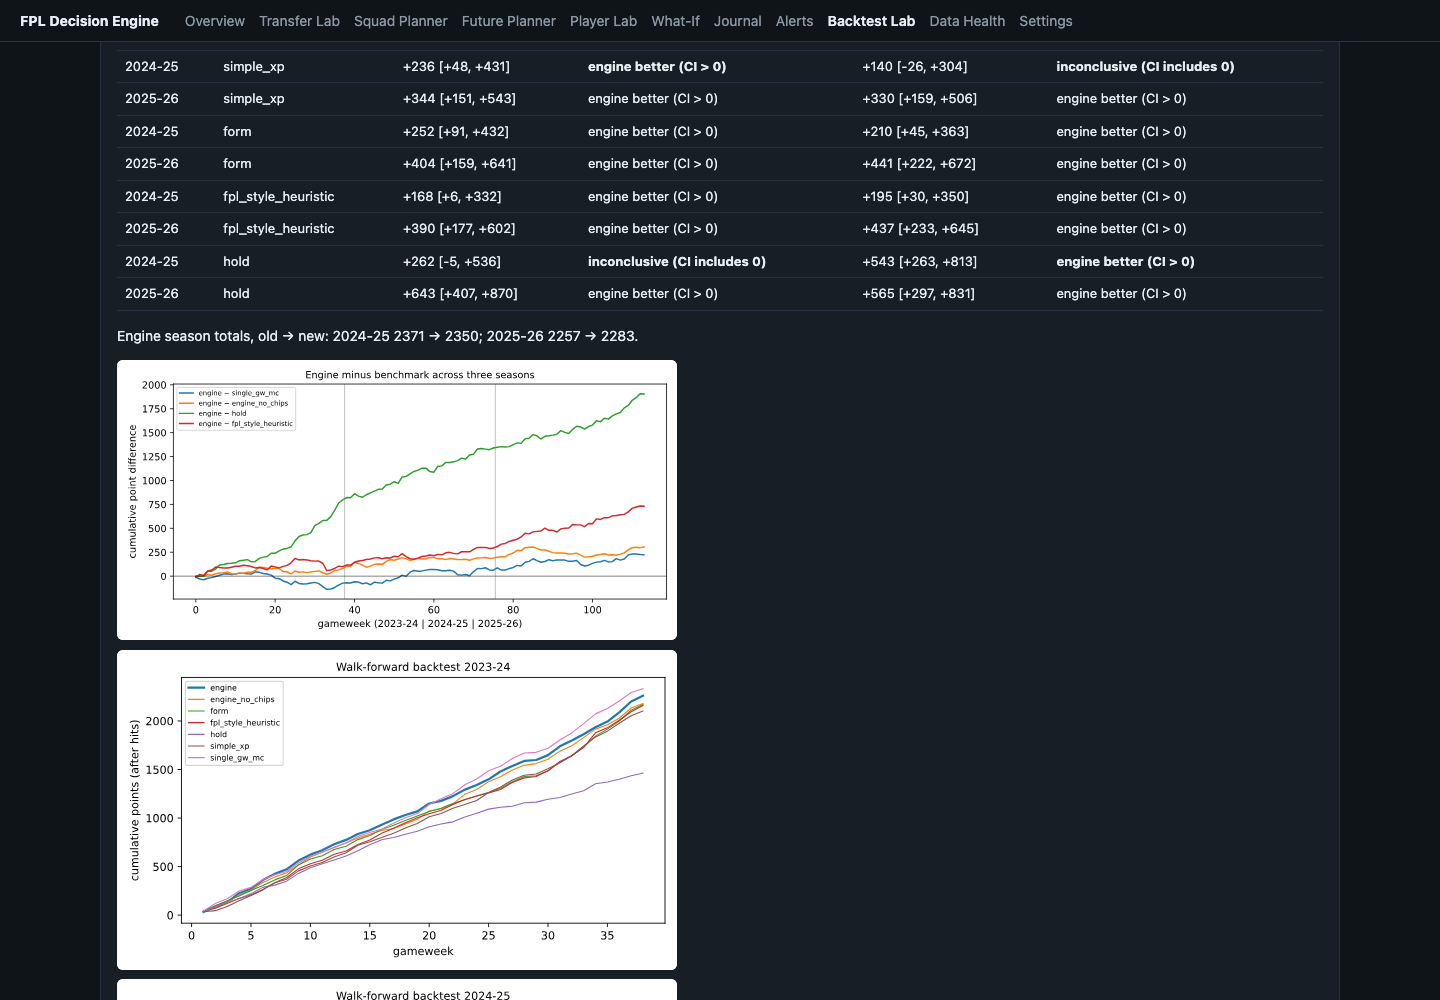
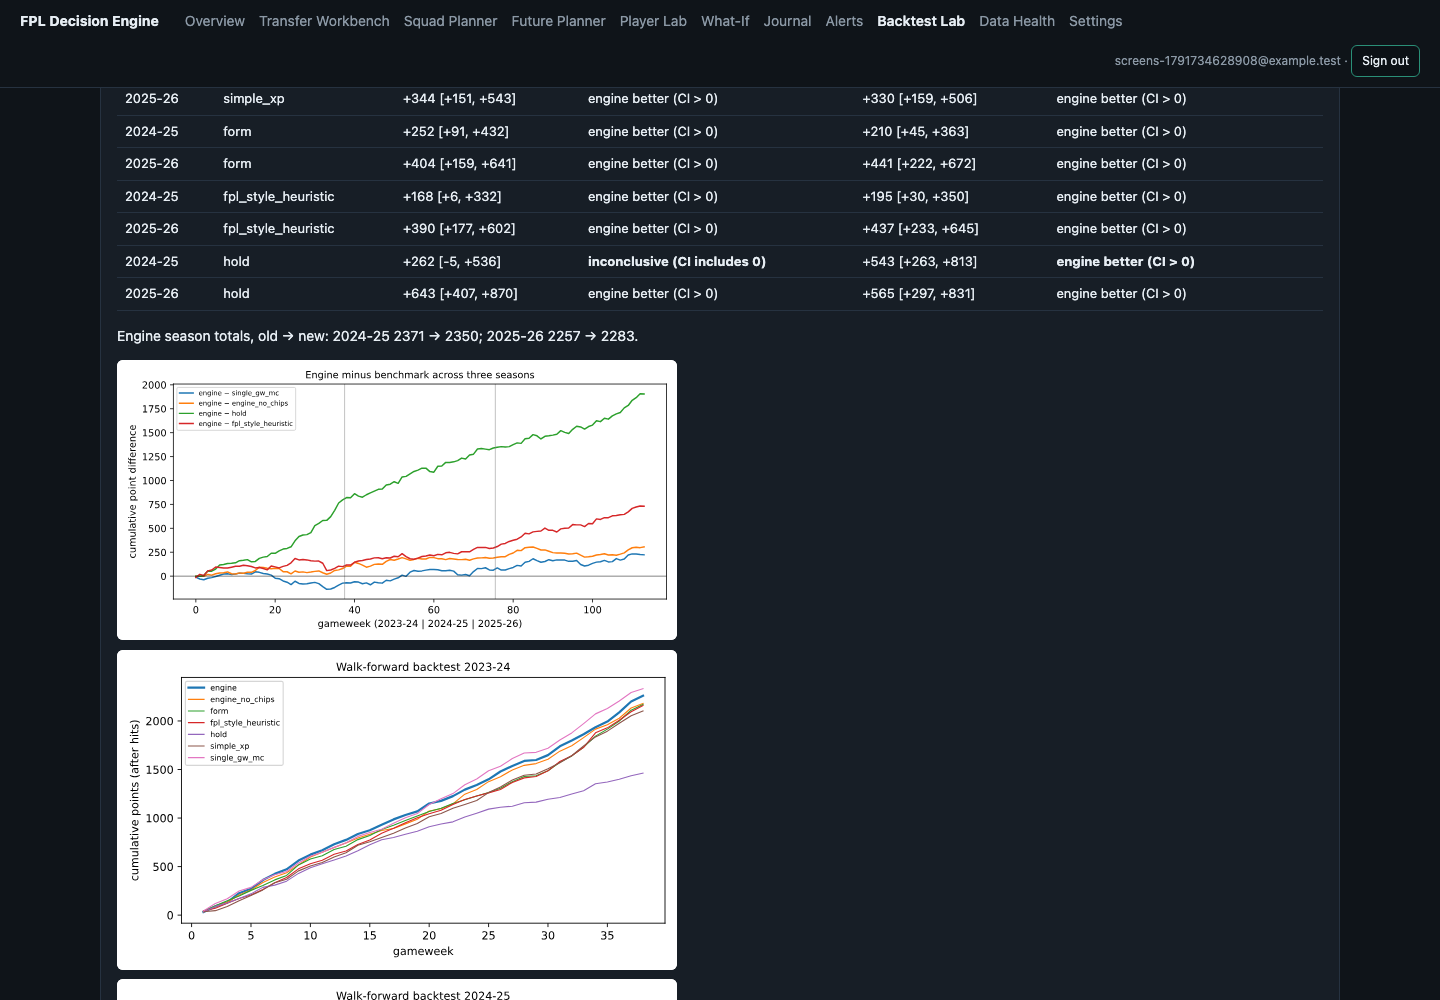
Refresh the screenshots from the current app and capture them as a signed-in beta user
The screenshot run predated invite-only accounts and still showed the pre-M1.1a overview and
"Transfer Lab". It now registers a throw-away beta user, builds a squad with the optimiser (no
real manager's data), captures Copilot Home, the Transfer Workbench, a historical run with
"What changed?", traceability, data health and the Backtest Lab, and deletes the account.
Full-page captures unstick the navigation bar so it is not repeated mid-image. Adds a social
preview image (product name, description and pipeline only). Removes the two screenshots of
replaced pages.

diff --git a/apps/web/e2e-prod/screenshots.spec.ts b/apps/web/e2e-prod/screenshots.spec.ts
@@ -1,54 +1,103 @@
-import { expect, test } from "@playwright/test";
+import { expect, request, test, type APIRequestContext, type Cookie, type Page } from "@playwright/test";
 
 // Portfolio screenshots (§89) of a running deployment — opt-in: SCREENSHOTS=1 with the same
-// environment as production.spec.ts. Writes docs/images/*.png (generated, committed evidence).
+// environment as production.spec.ts (E2E_BASE_URL, E2E_API_URL, E2E_OPS_KEY). Writes
+// docs/images/*.png (generated, committed evidence). Runs as a throw-away beta user with a squad
+// built by the initial-squad optimiser — no real manager's data — and erases everything after.
 const OUT = "../../docs/images";
-const MANAGER = `screens-${Date.now()}`;
+const API = process.env.E2E_API_URL ?? "http://127.0.0.1:8000";
+const OPS_KEY = process.env.E2E_OPS_KEY ?? "";
+
+let MANAGER = "";
+let cookies: Cookie[] = [];
+let web: APIRequestContext;
 
 test.describe.configure({ mode: "serial" });
 test.use({ viewport: { width: 1440, height: 1000 } });
 
-test.beforeEach(async ({ page }) => {
-  await page.addInitScript((key) => {
-    window.localStorage.setItem("fpl.settings.v1", JSON.stringify({ managerKey: key, profile: "default", horizon: 3 }));
-  }, MANAGER);
+test.beforeAll(async ({ baseURL }) => {
+  expect(OPS_KEY, "E2E_OPS_KEY must be set").not.toBe("");
+  const api = await request.newContext({ baseURL: API });
+  const inv = await api.post("/api/v1/auth/invites", { data: { label: "screenshots", days: 1 }, headers: { "x-api-key": OPS_KEY } });
+  expect(inv.ok(), await inv.text()).toBe(true);
+  web = await request.newContext({ baseURL });
+  const reg = await web.post("/auth/register", {
+    data: { invite_code: (await inv.json()).invite_code, email: `screens-${Date.now()}@example.test`, password: "screenshots-only-password" },
+  });
+  expect(reg.ok(), await reg.text()).toBe(true);
+  const mgr = await web.post("/backend/auth/managers", { data: { label: "demo squad" } });
+  expect(mgr.ok(), await mgr.text()).toBe(true);
+  MANAGER = (await mgr.json()).manager_key as string;
+  cookies = (await web.storageState()).cookies;
 });
 
+test.afterAll(async () => {
+  if (web) await web.delete("/backend/auth/me"); // the account and everything it owns
+});
+
+// a full-page capture repeats a sticky header in the middle of the image: unstick it for the
+// capture only (the application is unchanged)
+async function fullShot(page: Page, name: string) {
+  await page.addStyleTag({ content: ".nav, nav, header { position: static !important; }" });
+  await page.screenshot({ path: `${OUT}/${name}`, fullPage: true });
+}
+
+async function signedIn(page: Page) {
+  await page.context().addCookies(cookies);
+  await page.addInitScript((key) => {
+    if (window.localStorage.getItem("fpl.settings.v1")) return;
+    window.localStorage.setItem("fpl.settings.v1", JSON.stringify({ managerKey: key, profile: "default", horizon: 3 }));
+  }, MANAGER);
+}
+
 test("capture the decision workflow", async ({ page }) => {
+  await signedIn(page);
   await page.goto("/squad");
   await page.getByTestId("build-squad").click();
-  await expect(page.getByTestId("squad-msg")).toContainText(/Squad proposed by the initial-squad optimiser \((proven optimal|best found within the solver limit.*not proven optimal)\)/);
+  await expect(page.getByTestId("squad-msg")).toContainText(/Squad proposed by the initial-squad optimiser/);
   await page.getByTestId("save-squad").click();
   await expect(page.getByTestId("squad-msg")).toContainText("Squad saved");
-  await page.screenshot({ path: `${OUT}/squad-planner.png`, fullPage: true });
+  await fullShot(page, "squad-planner.png");
 
+  // Copilot Home with a worker-generated recommendation (current)
   await page.goto("/");
+  await expect(page.getByTestId("captain-profiles")).toBeVisible({ timeout: 300_000 });
   await page.getByTestId("generate").click();
-  await expect(page.getByTestId("decision-text")).toBeVisible();
-  await page.screenshot({ path: `${OUT}/overview-recommendation.png`, fullPage: true });
+  await expect(page.getByTestId("decision-text")).toBeVisible({ timeout: 420_000 });
+  await expect(page.getByTestId("rec-lifecycle")).toHaveAttribute("data-state", "current");
+  await page.screenshot({ path: `${OUT}/copilot-home.png` }); // the top of the page
+  await fullShot(page, "copilot-home-full.png");
 
+  // Transfer Workbench: the engine's replacements for one player vs holding, as a job
   await page.goto("/transfers");
   await page.locator("[data-testid^='out-']").nth(5).click();
   await page.getByTestId("evaluate").click();
   await expect(page.getByTestId("plan-hold")).toBeVisible({ timeout: 420_000 });
-  await page.screenshot({ path: `${OUT}/transfer-workbench.png`, fullPage: true });
+  await fullShot(page, "transfer-workbench.png");
+
+  // Result lifecycle: the squad is saved again, the run is historical and says what changed
+  const st = await (await web.get(`/backend/squad?manager_key=${MANAGER}`)).json();
+  const picks = st.state.squad.map((p: { player_code: number }) => ({ player_code: p.player_code }));
+  await web.post("/backend/squad", { data: { manager_key: MANAGER, picks, bank: st.state.bank + 5, free_transfers: st.state.free_transfers } });
+  await page.reload();
+  await expect(page.getByTestId("run-lifecycle")).toHaveAttribute("data-state", "stale");
+  await page.getByTestId("what-changed-button").click();
+  await expect(page.getByTestId("changed-state")).toBeVisible();
+  await page.getByTestId("run-lifecycle").scrollIntoViewIfNeeded();
+  await page.screenshot({ path: `${OUT}/what-changed.png` });
+  await web.post("/backend/squad", { data: { manager_key: MANAGER, picks, bank: st.state.bank, free_transfers: st.state.free_transfers } });
 
   await page.goto("/journal");
   await page.getByTestId("journal").locator("tbody tr a").first().click();
   await expect(page.getByTestId("trace")).toContainText("chain complete");
-  await page.screenshot({ path: `${OUT}/traceability.png`, fullPage: true });
+  await fullShot(page, "traceability.png");
 
   await page.goto("/health");
   await expect(page.getByTestId("services")).toContainText("live_source");
-  await page.screenshot({ path: `${OUT}/data-health.png`, fullPage: true });
+  await fullShot(page, "data-health.png");
 
   await page.goto("/backtests");
   await page.waitForLoadState("networkidle");
   await page.locator("img[data-figure='backtest_cumulative_difference.svg']").scrollIntoViewIfNeeded();
   await page.screenshot({ path: `${OUT}/backtest-lab.png` }); // the full report is ~11k px tall
-
-  await page.goto("/settings");
-  page.once("dialog", (d) => d.accept());
-  await page.getByTestId("delete-data").click(); // leave no screenshot data behind
-  await expect(page.getByTestId("settings-msg")).toContainText(/Deleted \d+ records/);
 });
